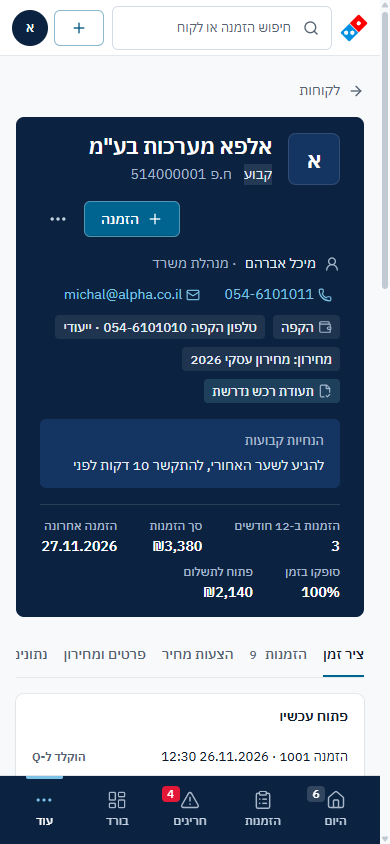
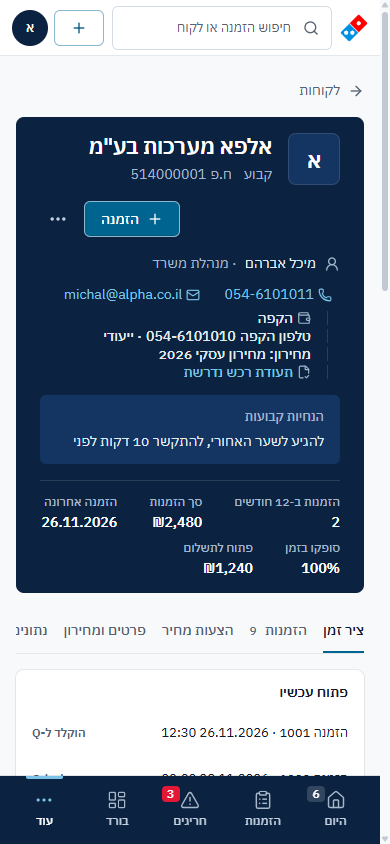
שלב 9: תיקונים מסבב האישור – קווים דקים, נגישות, פי X, ערוץ וצוות, היום, תיק לקוח, כניסה, סל ההזמנה

Changed region(s): [[0.0308, 0.3697, 0.9538, 0.955], [0.0923, 0.8626, 0.2154, 0.9242], [0.6154, 0.1848, 0.7077, 0.2464]]

diff --git a/src/features/board/Board.css b/src/features/board/Board.css
@@ -43,17 +43,17 @@
 .bpulse .bchg.is-down { color: var(--on-dark-down); }
 .bpulse .bchg__vs { color: var(--on-dark-3); font-weight: 400; }
 .bpulse__spark { display: block; width: 100%; height: 28px; margin-top: var(--space-2); }
-.bpulse__line { fill: none; stroke: var(--on-dark-accent); stroke-width: 2; vector-effect: non-scaling-stroke; stroke-linejoin: round; stroke-linecap: round; }
-.bpulse__prev { fill: none; stroke: var(--on-dark-3); stroke-width: 1.25; stroke-dasharray: 3 3; vector-effect: non-scaling-stroke; opacity: .7; }
+.bpulse__line { fill: none; stroke: var(--on-dark-1); stroke-width: 1.5; vector-effect: non-scaling-stroke; stroke-linejoin: round; stroke-linecap: round; }
+.bpulse__prev { fill: none; stroke: var(--on-dark-accent); stroke-width: 1; stroke-dasharray: 3 3; vector-effect: non-scaling-stroke; }
 /* פס דק בתחתית התא: אחוז בזמן (עם סימון יעד), או ותק ההקפה – בגובה הגרף הזעיר */
-.bpulse__bar { position: relative; display: flex; gap: 2px; height: 6px; margin-top: calc(var(--space-2) + 22px); border-radius: 2px; background: rgb(255 255 255 / .12); }
+.bpulse__bar { position: relative; display: flex; gap: 2px; height: 4px; margin-top: calc(var(--space-2) + 22px); border-radius: 2px; background: rgb(255 255 255 / .12); }
 .bpulse__bar--stack { background: none; }
 .bpulse__bar > span { display: block; height: 100%; min-width: 3px; border-radius: 2px; }
 .bpulse__bar > .is-ok { background: var(--on-dark-up); }
-.bpulse__bar > .is-n1 { background: var(--on-dark-3); }
-.bpulse__bar > .is-n2 { background: var(--on-dark-accent); }
+.bpulse__bar > .is-n1 { background: var(--on-dark-accent); }
+.bpulse__bar > .is-n2 { background: var(--on-dark-2); }
 .bpulse__bar > .is-n3 { background: var(--on-dark-warn); }
-.bpulse__goal { position: absolute; top: -4px; bottom: -4px; width: 2px; margin-inline-start: -1px; border-radius: 1px; background: var(--white); }
+.bpulse__goal { position: absolute; top: -4px; bottom: -4px; width: 1px; border-radius: 1px; background: var(--white); }
 /* שלד בצורת הפס */
 .bpulse--skel .bpulse__cell { cursor: default; gap: var(--space-3); }
 .bskel { display: block; height: 12px; border-radius: var(--radius-sm); background: var(--gray-100); }
@@ -92,12 +92,12 @@
 .board .is-a2 { background: var(--brand-500); }
 .board .is-a3 { background: var(--brand-700); }
 .board .is-cur { background: var(--brand-600); }
-.board .is-prev { background: var(--gray-300); }
-.board .is-prev-line { background: none; border-top: 2px dashed var(--gray-400); height: 0 !important; border-radius: 0 !important; }
+.board .is-prev { background: var(--gray-400); }
+.board .is-prev-line { background: none; border-top: 2px dashed var(--gray-500); height: 0 !important; border-radius: 0 !important; }
 
 .blegend { list-style: none; margin: 0; padding: 0; display: flex; flex-wrap: wrap; gap: var(--space-2) var(--space-4); font-size: var(--text-micro); color: var(--gray-700); }
 .blegend li { display: inline-flex; align-items: center; gap: var(--space-2); }
-.blegend i { width: 12px; height: 8px; border-radius: 2px; flex: none; }
+.blegend i { width: 12px; height: 4px; border-radius: 1px; flex: none; }
 
 /* ---------- הזמנות קרובות: שורה אחת, ימים ריקים מצטמצמים ---------- */
 .bdays { display: flex; margin: 0 calc(-1 * var(--space-2)); }
@@ -110,7 +110,7 @@
 .bday__name { font-size: var(--text-label); font-weight: 600; }
 .bday__date { font-size: var(--text-micro); color: var(--gray-600); white-space: nowrap; }
 .bday__count { margin-top: var(--space-2); font-size: var(--text-lead); font-weight: 600; line-height: 1.2; font-variant-numeric: tabular-nums; }
-.bday.is-empty .bday__count { color: var(--gray-400); font-weight: 500; }
+.bday.is-empty .bday__count { color: var(--gray-500); font-weight: 500; }
 .bday__sum { font-size: var(--text-label); color: var(--gray-700); }
 .bday__piz { font-size: var(--text-micro); color: var(--gray-600); }
 
@@ -125,10 +125,10 @@
 .bgoal__tag { margin-inline-start: auto; display: inline-flex; align-items: center; height: 20px; padding: 0 6px; border-radius: var(--radius-sm); font-size: var(--text-micro); font-weight: 500; line-height: 1; }
 .bgoal__tag.is-ok { background: var(--ok-bg); color: var(--ok-fg); }
 .bgoal__tag.is-behind { background: var(--urgent-bg); color: var(--urgent-fg); }
-.bgoal__track { position: relative; display: block; height: 8px; border-radius: 2px; background: var(--gray-100); }
+.bgoal__track { position: relative; display: block; height: 4px; border-radius: 2px; background: var(--gray-100); }
 .bgoal__fill { display: block; height: 100%; border-radius: 2px; background: var(--brand-600); }
-.bgoal__mark { position: absolute; top: -4px; bottom: -4px; width: 0; border-inline-start: 2px dashed var(--gray-700); }
-.bgoal__mark--goal { border-inline-start-style: solid; border-color: var(--gray-900); }
+.bgoal__mark { position: absolute; top: -5px; bottom: -5px; width: 0; border-inline-start: 1px dashed var(--gray-700); }
+.bgoal__mark--goal { border-inline-start: 1.5px solid var(--gray-900); }
 .bgoal__note { font-size: var(--text-micro); color: var(--gray-600); }
 
 /* ---------- מכירות ---------- */
@@ -144,7 +144,7 @@
 .bdaily { min-width: 0; }
 .bdaily__head { display: flex; align-items: center; gap: var(--space-3); flex-wrap: wrap; margin-bottom: var(--space-4); }
 .bdaily__head .blegend { margin-inline-start: auto; }
-.bchart { position: relative; height: 220px; margin: 0 0 var(--space-6); }
+.bchart { position: relative; height: 200px; margin: 0 0 var(--space-6); }
 .bchart--empty { display: grid; place-items: center; }
 .bchart__zero { position: absolute; inset-inline: 0; bottom: 0; border-top: 1px solid var(--gray-300); }
 .bchart__grid { position: absolute; inset: 0; pointer-events: none; }
@@ -153,14 +153,15 @@
 .bchart__grid span bdi { position: absolute; left: 0; top: -9px; padding-right: var(--space-2); background: var(--white); font-variant-numeric: tabular-nums; }
 .bchart__plot { position: absolute; top: 0; bottom: 0; right: 0; left: 52px; display: flex; align-items: flex-end; }
 .bchart__lines { position: absolute; inset: 0; width: 100%; height: 100%; overflow: visible; pointer-events: none; }
-.bchart__curline { fill: none; stroke: var(--brand-600); stroke-width: 2.5; vector-effect: non-scaling-stroke; stroke-linejoin: round; stroke-linecap: round; }
-.bchart__prevline { fill: none; stroke: var(--gray-400); stroke-width: 1.5; stroke-dasharray: 5 4; vector-effect: non-scaling-stroke; }
+.bchart__curline { fill: none; stroke: var(--brand-600); stroke-width: 2; vector-effect: non-scaling-stroke; stroke-linejoin: round; stroke-linecap: round; }
+.bchart__area { fill: var(--brand-600); opacity: .07; }
+.bchart__prevline { fill: none; stroke: var(--gray-500); stroke-width: 1; stroke-dasharray: 4 3; vector-effect: non-scaling-stroke; }
 .bchart__col { position: relative; flex: 1; height: 100%; display: flex; align-items: flex-end; justify-content: center; }
-.bchart__dot { position: absolute; width: 10px; height: 10px; margin-bottom: -5px; border-radius: 50%; background: var(--white); box-shadow: 0 0 0 2.5px var(--brand-600); pointer-events: none; }
+.bchart__dot { position: absolute; width: 10px; height: 10px; margin-bottom: -5px; border-radius: 50%; background: var(--white); box-shadow: 0 0 0 1.5px var(--brand-600); pointer-events: none; }
 .bchart__pair { display: flex; align-items: flex-end; gap: 2px; width: min(76%, 34px); height: 100%; }
 .bchart__bar { flex: 1; min-height: 0; border-radius: 2px 2px 0 0; transition: background var(--dur-instant) var(--ease); }
 .bchart__col.is-hover .bchart__bar.is-cur { background: var(--brand-800); }
-.bchart__col.is-hover .bchart__bar.is-prev { background: var(--gray-400); }
+.bchart__col.is-hover .bchart__bar.is-prev { background: var(--gray-500); }
 .bchart__x { position: absolute; top: calc(100% + 6px); font-size: var(--text-micro); color: var(--gray-600); white-space: nowrap; }
 .bchart__tip { position: absolute; top: 0; transform: translate(50%, -8px); z-index: var(--z-tip); display: grid; gap: 1px; padding: var(--space-2) var(--space-3); border-radius: var(--radius-md); background: var(--gray-900); color: var(--white); font-size: var(--text-micro); white-space: nowrap; pointer-events: none; text-align: center; box-shadow: var(--elev-2); }
 .bchart__tip b { font-weight: 500; }
@@ -170,11 +171,11 @@
 .bchart__table .report__scroll { margin-top: var(--space-2); }
 
 /* ---------- פס מפולח + טבלה מיושרת (עמידה בזמנים, גבייה) ---------- */
-.bstack { display: flex; gap: 2px; height: 10px; }
+.bstack { display: flex; gap: 2px; height: 6px; }
 .bstack span { min-width: 4px; border-radius: 2px; }
 .btab { width: 100%; margin-top: var(--space-3); border-collapse: collapse; font-size: var(--text-table); }
 .btab th { padding: var(--space-2) 0; font-weight: 400; color: var(--gray-800); text-align: start; }
-.btab th i { display: inline-block; width: 10px; height: 10px; margin-inline-end: var(--space-2); border-radius: 2px; vertical-align: -1px; }
+.btab th i { display: inline-block; width: 8px; height: 8px; margin-inline-end: var(--space-2); border-radius: 2px; vertical-align: -1px; }
 .btab td { padding: var(--space-2) 0 var(--space-2) var(--space-4); text-align: end; font-weight: 600; font-variant-numeric: tabular-nums; white-space: nowrap; }
 .btab .btab__pct { width: 1%; padding-inline-start: var(--space-4); font-weight: 400; color: var(--gray-600); }
 .btab tr + tr th, .btab tr + tr td { border-top: 1px solid var(--line-soft); }
@@ -219,7 +220,7 @@
 .brank__who { display: grid; min-width: 0; }
 .brank__name { font-size: var(--text-table); font-weight: 500; overflow: hidden; text-overflow: ellipsis; white-space: nowrap; }
 .brank__meta { font-size: var(--text-micro); color: var(--gray-600); white-space: nowrap; overflow: hidden; text-overflow: ellipsis; }
-.brank__track { display: block; height: 8px; border-radius: 2px; background: var(--gray-25); }
+.brank__track { display: block; height: 4px; border-radius: 2px; background: var(--gray-25); }
 .brank__track span { display: block; height: 100%; border-radius: 2px; background: var(--brand-500); }
 .brank li.is-first .brank__track span { background: var(--brand-600); }
 .brank li.is-first .brank__pos { color: var(--brand-700); }
@@ -262,10 +263,10 @@
   .board__bar > .seg { overflow-x: auto; scrollbar-width: none; max-width: 100%; }
   .board__bar > .seg button { flex: none; white-space: nowrap; padding: 0 var(--space-2); }
   .board__tools { margin-inline-start: 0; }
-  /* הזמנות קרובות: גלילה לרוחב עם עצירה, היום ראשון */
-  .bdays { overflow-x: auto; scroll-snap-type: x mandatory; scrollbar-width: none; margin: 0 calc(-1 * var(--space-4)); padding: 0 var(--space-3); }
-  .bday { flex: 0 0 34%; scroll-snap-align: start; }
-  .bday.is-empty { flex-basis: 24%; }
+  /* הזמנות קרובות: ארבעה ימים בשורה, שתי שורות – בלי חיתוך ובלי גלילה */
+  .bdays { display: grid; grid-template-columns: repeat(4, minmax(0, 1fr)); row-gap: var(--space-1); }
+  .bday { padding: var(--space-2); }
+  .bday:nth-child(4n+1)::before { display: none; }
   .bkv { grid-template-columns: minmax(0, 1fr); gap: 0; }
   .bkv > div { display: flex; padding: var(--space-2) 0; border-top: 1px solid var(--line-soft); }
   .bkv > div:first-child { border-top: 0; }
@@ -280,3 +281,11 @@
   .brank__pos { grid-area: pos; } .brank__who { grid-area: who; } .brank__sum { grid-area: sum; } .brank__pct { grid-area: pct; } .brank__track { grid-area: bar; }
 }
 @media (prefers-reduced-motion: reduce) { .bchart__bar, .bday, .bpulse__cell { transition: none; } }
+
+/* בלי יעדים – שורה דקה עם קישור, מתחת לפס */
+.board__nogoals { margin: calc(-1 * var(--space-2)) 0 var(--space-4); font-size: var(--text-label); color: var(--gray-600); }
+/* ערוץ וצוות בשורה אחת */
+.bct { display: grid; gap: var(--space-3); margin-top: var(--space-3); }
+.bct p { margin: 0; font-size: var(--text-table); line-height: var(--lh-body); color: var(--gray-900); }
+.bct b { font-weight: 600; }
+.bct__k { display: inline-block; min-width: 48px; font-size: var(--text-label); font-weight: 500; color: var(--gray-600); }

diff --git a/src/features/board/BoardPage.tsx b/src/features/board/BoardPage.tsx
@@ -46,9 +46,11 @@ function Money({ v, className = '' }: { v: number; className?: string }) {
   return <Ltr><span className={`money ${className}`}><span className="money__cur">₪</span>{fmtMoney(v).replace('₪', '')}</span></Ltr>;
 }
 /* "+18%" קצר לשורות משנה */
-function Delta({ d }: { d: number | null }) {
+function Delta({ cur, prev }: { cur: number; prev: number }) {
+  const d = delta(cur, prev);
   if (d === null || d === 0) return <span className="bdelta">{d === 0 ? 'ללא שינוי' : '—'}</span>;
-  return <span className={`bdelta ${d > 0 ? 'is-up' : 'is-down'}`}><Ltr>{d > 0 ? `+${d}%` : `−${Math.abs(d)}%`}</Ltr></span>;
+  if (d > RATIO_FROM) return <span className="bdelta is-up"><span className="sr-only">עלייה </span>פי <Ltr>{(cur / prev).toFixed(1)}</Ltr></span>;
+  return <span className={`bdelta ${d > 0 ? 'is-up' : 'is-down'}`}><span className="sr-only">{d > 0 ? 'עלייה' : 'ירידה'} </span><Ltr>{d > 0 ? `+${d}%` : `−${Math.abs(d)}%`}</Ltr></span>;
 }
 /* שינוי מול התקופה הקודמת. עד 200% – אחוז; מעל זה "פי X · מול <הערך הקודם>" (אחוז ענק על בסיס קטן מטעה) */
 const RATIO_FROM = 200;
@@ -157,6 +159,9 @@ export function BoardPage() {
 
   // בלי יעדים מוגדרים – בלי כרטיס יעדים (ההגדרה בהגדרות ← יעדים)
   const hasGoals = !!(goals.orders || goals.revenue || goals.onTimePct);
+  // ערוץ אחד ונציג אחד – שורה אחת משותפת במקום שני כרטיסים כמעט ריקים
+  const mergeCT = rk.channels.length < 2 && rk.team.length < 2;
+  const wide = (k: SectionKey) => WIDE.includes(k);
   const active = (Object.entries(filters) as [keyof Filters, string][]).filter(([, v]) => v);
   const FILTER_NAME: Record<keyof Filters, string> = { cluster: 'אשכול', branch: 'סניף', handler: 'נציג', method: 'אמצעי תשלום' };
 
@@ -226,8 +231,9 @@ export function BoardPage() {
       {busy ? <BoardSkeleton /> : (
         <>
           <Pulse s={s} sp={sp} sv={sv} svp={svp} col={col} daily={daily} prevName={prevName} goal={goals.onTimePct} go={nav} />
+          {!hasGoals && <p className="board__nogoals">לא הוגדרו יעדים לחודש · <button type="button" className="link" onClick={() => nav('/settings/goals')}>להגדרת יעדים</button></p>}
           <div className="board__grid">
-            {order.filter((k) => !hidden.includes(k) && (k !== 'goals' || hasGoals)).map((k) => <div key={k} className={`board__slot ${WIDE.includes(k) ? 'is-wide' : ''}`}>{render[k]()}</div>)}
+            {order.filter((k) => !hidden.includes(k) && (k !== 'goals' || hasGoals) && !(mergeCT && k === 'team')).map((k) => <div key={k} className={`board__slot ${wide(k) ? 'is-wide' : ''}`}>{mergeCT && k === 'channels' ? <ChannelTeamLine ch={rk.channels} team={rk.team} /> : render[k]()}</div>)}
           </div>
         </>
       )}
@@ -292,7 +298,7 @@ function Pulse({ s, sp, sv, svp, col, daily, prevName, goal, go }: {
         <span className="bpulse__label">סופקו בזמן{goal ? <> · יעד <Ltr>{goal}%</Ltr></> : null}</span>
         <span className="bpulse__value">{sv.onTimePct === null ? <span className="bpulse__none">—</span> : <Ltr>{sv.onTimePct}%</Ltr>}</span>
         <span className="bpulse__foot">
-          {onTimeD !== null && onTimeD !== 0 && <span className={`bchg ${onTimeD > 0 ? 'is-up' : 'is-down'}`}><span aria-hidden="true">{onTimeD > 0 ? '▲' : '▼'} </span><Ltr>{Math.abs(onTimeD)}</Ltr> נק' <span className="bchg__vs">· מול {prevName}</span></span>}
+          {onTimeD !== null && onTimeD !== 0 && <span className={`bchg ${onTimeD > 0 ? 'is-up' : 'is-down'}`}><span aria-hidden="true">{onTimeD > 0 ? '▲' : '▼'} </span><span className="sr-only">{onTimeD > 0 ? 'עלייה של' : 'ירידה של'} </span><Ltr>{Math.abs(onTimeD)}</Ltr> נק' <span className="bchg__vs">· מול {prevName}</span></span>}
           {sv.delivered > 0 && <span className="bpulse__vs">{sv.late ? <>באיחור <Ltr>{num(sv.late)}</Ltr> מתוך <Ltr>{num(sv.delivered)}</Ltr></> : 'בלי איחורים'}</span>}
         </span>
         {sv.onTimePct !== null && (
@@ -398,9 +404,9 @@ function Upcoming({ h, now, go }: { h: ReturnType<typeof horizon>; now: Date; go
       lead={h.week.count === 0 ? <p className="bsec__empty">אין הזמנות פתוחות בשבוע הקרוב.</p> : (
         <Answer value={<Ltr>{num(h.week.count)}</Ltr>}>{h.week.count === 1 ? 'הזמנה' : 'הזמנות'} בשבוע הקרוב · <Money v={h.week.sum} />{h.week.pizzas > 0 && <> · {pizzas$(h.week.pizzas)}</>}</Answer>
       )}>
-      <div className="bdays" role="list">
+      <div className="bdays" role="group" aria-label="הזמנות לפי יום">
         {h.days.map((d) => (
-          <button key={d.date} type="button" role="listitem" className={`bday ${d.weekend ? 'is-weekend' : ''} ${d.count ? '' : 'is-empty'} ${d.date === today ? 'is-today' : ''}`} onClick={() => go(linkFor(d.date))}
+          <button key={d.date} type="button" className={`bday ${d.weekend ? 'is-weekend' : ''} ${d.count ? '' : 'is-empty'} ${d.date === today ? 'is-today' : ''}`} onClick={() => go(linkFor(d.date))}
             aria-label={`${dayName(d.date)} ${short(d.date)}: ${d.count} הזמנות`}>
             <span className="bday__name">{dayName(d.date)}</span>
             <span className="bday__date"><Ltr>{short(d.date)}</Ltr>{d.weekend && <> · סופ"ש</>}</span>
@@ -411,7 +417,7 @@ function Upcoming({ h, now, go }: { h: ReturnType<typeof horizon>; now: Date; go
             </>}
           </button>
         ))}
-        <button type="button" role="listitem" className={`bday bday--later ${h.later.count ? '' : 'is-empty'}`} onClick={() => go('/orders?tab=future')}>
+        <button type="button" className={`bday bday--later ${h.later.count ? '' : 'is-empty'}`} onClick={() => go('/orders?tab=future')}>
           <span className="bday__name">אחר כך</span>
           <span className="bday__date">מעבר לשבוע</span>
           <span className="bday__count"><Ltr>{h.later.count ? num(h.later.count) : '—'}</Ltr></span>
@@ -429,9 +435,9 @@ function SalesSection({ s, sp, prevName, daily }: { s: ReturnType<typeof sales>;
     <Section id="sales" title="מכירות">
       <div className="bsales">
         <dl className="bkv">
-          <div><dt>ממוצע להזמנה</dt><dd><Money v={s.avg} />{cmp && <Delta d={delta(s.avg, sp.avg)} />}</dd></div>
-          {(s.pizzas > 0 || sp.pizzas > 0) && <div><dt>פיצות</dt><dd><Ltr>{num(s.pizzas)}</Ltr>{cmp && <Delta d={delta(s.pizzas, sp.pizzas)} />}</dd></div>}
-          <div><dt>לקוחות שהזמינו</dt><dd><Ltr>{num(s.customers)}</Ltr>{cmp && <Delta d={delta(s.customers, sp.customers)} />}</dd></div>
+          <div><dt>ממוצע להזמנה</dt><dd><Money v={s.avg} />{cmp && <Delta cur={s.avg} prev={sp.avg} />}</dd></div>
+          {(s.pizzas > 0 || sp.pizzas > 0) && <div><dt>פיצות</dt><dd><Ltr>{num(s.pizzas)}</Ltr>{cmp && <Delta cur={s.pizzas} prev={sp.pizzas} />}</dd></div>}
+          <div><dt>לקוחות שהזמינו</dt><dd><Ltr>{num(s.customers)}</Ltr>{cmp && <Delta cur={s.customers} prev={sp.customers} />}</dd></div>
         </dl>
         <DailyChart points={daily} prevName={prevName} />
       </div>
@@ -488,9 +494,10 @@ function DailyChart({ points, prevName }: { points: DayPoint[]; prevName: string
           <div className="bchart__grid" aria-hidden="true">
             {ticks.map((v) => <span key={v} style={{ bottom: `${(v / top) * 100}%` }}><bdi dir="ltr">{tick(v)}</bdi></span>)}
           </div>
-          <div className="bchart__plot" role="img" aria-label={`${metric === 'sum' ? 'הכנסות' : 'הזמנות'} ${mode === 'cum' ? 'מצטברות' : 'לפי יום'}, מול ${prevName}`}>
+          <div className="bchart__plot" role="img" aria-label={`${metric === 'sum' ? 'הכנסות' : 'הזמנות'} ${mode === 'cum' ? 'מצטברות' : 'לפי יום'}: בתקופה ${metric === 'sum' ? fmtMoney(cumCur[n - 1] ?? 0) : num(cumCur[n - 1] ?? 0)}, ב${prevName} ${metric === 'sum' ? fmtMoney(cumPrev[n - 1] ?? 0) : num(cumPrev[n - 1] ?? 0)}`}>
             {mode === 'cum' && (
               <svg className="bchart__lines" viewBox="0 0 100 100" preserveAspectRatio="none" aria-hidden="true">
+                <polygon className="bchart__area" points={`${xAt(0)},100 ${line(cumCur)} ${xAt(n - 1)},100`} />
                 <polyline className="bchart__prevline" points={line(cumPrev)} />
                 <polyline className="bchart__curline" points={line(cumCur)} />
               </svg>
@@ -696,6 +703,18 @@ function ChannelsSection({ rows }: { rows: ChannelRanked[] }) {
           </table>
         </div>
       )}
+    </Section>
+  );
+}
+/* ערוץ אחד ונציג אחד: שני משפטים בכרטיס אחד */
+function ChannelTeamLine({ ch, team }: { ch: ChannelRanked[]; team: Ranked[] }) {
+  const c = ch[0], t = team[0];
+  return (
+    <Section id="ct" title="ערוץ וצוות">
+      <div className="bct">
+        <p><span className="bct__k">ערוץ</span>{c ? <><b>{c.name}</b> – כל ההזמנות בתקופה</> : <span className="muted">אין הזמנות</span>}</p>
+        <p><span className="bct__k">צוות</span>{t ? <><b>{t.name}</b> – {orders$(t.count)}, <Money v={t.sum} />{t.onTimePct !== null && <>, <Ltr>{t.onTimePct}%</Ltr> בזמן</>}</> : <span className="muted">אין הזמנות</span>}</p>
+      </div>
     </Section>
   );
 }

diff --git a/src/features/orders/ItemsBuilder.tsx b/src/features/orders/ItemsBuilder.tsx
@@ -184,7 +184,8 @@ export function ItemsBuilder({ lines, setLines, catalog, onTouched, revealProble
   const showOther = lines.some((l) => categoryOf(l) === OTHER);
   const tabs = [...CATEGORIES, ...(showOther ? [OTHER] : [])];
   const catLines = lines.filter((l) => categoryOf(l) === tab);
-  const pizza = tab === PIZZA || tab === OTHER;
+  // "אחר" עם הבוחר (מוצר כללי בטקסט חופשי) – בלי עמודות תוספות/חלוקה, אלא אם יש שורה ישנה עם תוספות או חלוקה
+  const pizza = tab === PIZZA || (tab === OTHER && (!outerTab || catLines.some((l) => l.toppings?.length || l.parts?.some((p) => p.trim()))));
   // שורה חדשה בפיצות ממשיכה את סוג הפיצה של השורה האחרונה
   const prevName = tab === PIZZA ? [...catLines].reverse().find((l) => l.name.trim())?.name.trim() ?? '' : '';
   const draft: Line = { key: draftKey, group: tab, name: '', qty: 0, unitPrice: 0 };
@@ -288,7 +289,7 @@ export function ItemsBuilder({ lines, setLines, catalog, onTouched, revealProble
               onBlur={(e) => { if (!e.currentTarget.contains(e.relatedTarget as Node | null)) setFocus((f) => (f?.key === l.key ? null : f)); }}>
               <div className={`ib-r ${isDraft ? 'is-draft' : ''}`} role="row">
                 <span className="ib-r__name">
-                  {tab === OTHER && l.group && l.group !== 'כללי' && <span className="ib-r__old">{l.group}</span>}
+                  {tab === OTHER && l.group && l.group !== 'כללי' && l.group !== OTHER && <span className="ib-r__old">{l.group}</span>}
                   <input className={`input input--sm ${bad && !l.name.trim() ? 'is-invalid' : ''}`} list={tab === OTHER ? undefined : `ib-names-${CATEGORIES.indexOf(tab)}`} value={l.name}
                     placeholder={isDraft && prevName ? prevName : pizza ? 'למשל: משפחתית' : 'מוצר'}
                     onChange={(e) => change(l.key, { name: e.target.value, autoName: undefined })} aria-label={`${tab === PIZZA ? 'סוג פיצה' : 'מוצר'} – ${label}`} aria-invalid={bad && !l.name.trim() ? true : undefined} {...on(l.key, 'name')} />
@@ -349,7 +350,6 @@ export function ItemsBuilder({ lines, setLines, catalog, onTouched, revealProble
       </div>
       )}
       <p className="ib-foot">
-        <span className="ib-hint">{tab === PIZZA ? 'Enter – לתוספת הבאה באותו סוג · Enter בשורה ריקה – סוג פיצה חדש · כמה תוספות – עם פסיק' : `Enter – לשורה הבאה${pizza ? ' · כמה תוספות – עם פסיק' : ''}`}</span>
         {tab !== PIZZA && count(tab) > 0 && <b>סה״כ {tab}: <Ltr>{count(tab)}</Ltr></b>}
       </p>
       {CATEGORIES.map((c, i) => <datalist key={c} id={`ib-names-${i}`}>{[...new Set([...catalog.filter((x) => x.category === c).map((x) => x.name), ...hints.names(c)])].map((h) => <option key={h} value={h} />)}</datalist>)}

diff --git a/src/features/today/TodayQueue.tsx b/src/features/today/TodayQueue.tsx
@@ -102,16 +102,18 @@ function QueueRow({ o, lane, isNext, now }: { o: OrderView; lane: Lane; isNext: 
           {o.branchName || <Missing>ללא סניף</Missing>} · <Money value={o.amount} />
           {lane === 'inq' && o.qNumber && <> · Q <Ltr>{o.qNumber}</Ltr></>}
           {lane === 'closed' && <> · {closeLabel(o)}</>}
+          {back && late && <> · <span className="qrow__late">לא הועברה ל-Q</span></>}
+          {back && credit && <> · אשראי לחיוב</>}
         </span>
       </button>
       <span className="qrow__tags">
         {back && <span className="tqtag tqtag--back">הגיע הזמן לחזור</span>}
-        {late && <span className="tqtag tqtag--late">לא הועברה ל-Q</span>}
-        {credit && <span className="tqtag tqtag--credit">אשראי לחיוב</span>}
+        {late && !back && <span className="tqtag tqtag--late">לא הועברה ל-Q</span>}
+        {credit && !back && <span className="tqtag tqtag--credit">אשראי לחיוב</span>}
         {lane !== 'closed' && <OpsTag o={o} />}
         {!late && lane !== 'closed' && <HealthBadge health={o.health} issues={o.issues} compact focusable={false} />}
       </span>
-      {lane !== 'closed' && <span className="qrow__act">{o.hold ? <HoldActions o={o} /> : <NextStep o={o} />}</span>}
+      {lane !== 'closed' && <span className="qrow__act">{o.hold ? <HoldActions o={o} inRow /> : <NextStep o={o} />}</span>}
       {/* בהמתנה: למה, מי ומתי, ומתי לחזור */}
       {o.hold && (lane === 'hold' || back) && (
         <span className="qrow__hold">

diff --git a/src/features/orders/Hold.tsx b/src/features/orders/Hold.tsx
@@ -115,7 +115,7 @@ export function HoldButton({ o, size = 'sm' }: { o: OrderView; size?: 'sm' | 'md
 }
 
 /* פעולות על הזמנה שבהמתנה: ניסיון נוסף ושחרור */
-export function HoldActions({ o, size = 'sm' }: { o: OrderView; size?: 'sm' | 'md' }) {
+export function HoldActions({ o, size = 'sm', inRow = false }: { o: OrderView; size?: 'sm' | 'md'; inRow?: boolean }) {
   const { update } = useStore();
   const [open, setOpen] = useState(false);
   if (!o.hold) return null;
@@ -123,7 +123,7 @@ export function HoldActions({ o, size = 'sm' }: { o: OrderView; size?: 'sm' | 'm
   return (
     <span className="hold-acts">
       <Pop open={open} setOpen={setOpen} title={`ניסיון ${(o.hold.attempts ?? 1) + 1}`}
-        trigger={<Button size={size} variant="secondary" onClick={(e) => e.stopPropagation()}>ניסיתי שוב</Button>}>
+        trigger={<Button size={size} variant={inRow ? 'fix' : 'secondary'} onClick={(e) => e.stopPropagation()}>ניסיתי שוב</Button>}>
         <HoldForm o={o} retry done={() => setOpen(false)} />
       </Pop>
       <Button size={size} variant="ghost" onClick={(e) => { e.stopPropagation(); release(); }}>שחרר</Button>

diff --git a/src/features/quotes/quotes.css b/src/features/quotes/quotes.css
@@ -29,7 +29,7 @@
 .qe-locked { display: flex; align-items: center; gap: var(--space-2); margin: 0; padding: var(--space-3) var(--space-3); border-radius: var(--radius); background: var(--gray-100); color: var(--gray-900); font-size: var(--text-table); }
 .qe-sec { padding: var(--space-4) var(--space-4); }
 .qe-sec__title { display: flex; align-items: center; gap: var(--space-2); flex-wrap: wrap; margin: 0 0 var(--space-3); font-size: var(--text-card-title); font-weight: 600; color: var(--gray-900); }
-.qe-num { display: inline-block; min-width: 14px; color: var(--gray-400); font-size: var(--text-heading); font-weight: 600; font-variant-numeric: tabular-nums; }
+.qe-num { display: inline-block; min-width: 14px; color: var(--gray-500); font-size: var(--text-heading); font-weight: 600; font-variant-numeric: tabular-nums; }
 .qe-opt { font-size: var(--text-label); font-weight: 400; color: var(--gray-600); }
 .qe-row { display: flex; align-items: center; gap: var(--space-3); flex-wrap: wrap; }
 .qe-plsel { width: auto; min-width: 220px; }

diff --git a/src/features/customers/CustomerFile.css b/src/features/customers/CustomerFile.css
@@ -270,3 +270,11 @@
   .cfile__mob { display: flex; }
   .cfile__actions { margin-inline-start: auto; }
 }
+/* עובדות בראש התיק – טקסט עם מפרידים, כמו בראש כרטיס ההזמנה (לא שרשרת תגיות) */
+.cfile__head .cfile__facts { gap: var(--space-1) 0; }
+.cfile__head .cfile__facts > .tag { height: auto; padding: 0; background: none; font-size: var(--text-table); font-weight: 500; }
+.cfile__head .cfile__facts > * + *::before { content: ""; display: inline-block; width: 1px; height: 14px; margin: 0 var(--space-3); background: var(--on-dark-line); vertical-align: middle; }
+.cfile__head .cfile__facts > .fact { margin-inline-end: 0; }
+.cfile__head .tag--brand { background: none; color: var(--on-dark-accent); }
+.cfile__head .btn--primary { border-color: rgb(255 255 255 / .55); }
+.cfile__head .ctype { background: none; padding: 0; color: var(--on-dark-3); }

diff --git a/src/features/orders/NewOrder.tsx b/src/features/orders/NewOrder.tsx
@@ -560,7 +560,7 @@ function NewOrderForm({ initial, onClose }: { initial: NewOrderRequest; onClose:
           : (
             <span className="ib-sum__override">
               <input className="input input--sm input--ltr" inputMode="decimal" autoFocus value={override} onChange={(e) => { setOverride(e.target.value); clearErr('final'); }} aria-label="סכום לחיוב (לפי הסגירה מול הלקוח)" {...inv('final')} />
-              {isManual && <span className="no-final__tag">שונה ידנית · מחושב <Ltr>{fmtMoney(total)}</Ltr></span>}
+              {isManual && <span className="no-final__tag">שונה ידנית · מחושב{' '}<Ltr>{fmtMoney(total)}</Ltr></span>}
               <button type="button" className="link" onClick={() => setOverride(null)}>חזור לחישוב</button>
             </span>
           ))}

diff --git a/src/auth/AuthScreens.css b/src/auth/AuthScreens.css
@@ -15,7 +15,7 @@
 .auth__brand-title { margin: var(--space-6) 0 0; font-size: 40px; font-weight: 600; line-height: 1.15; letter-spacing: -0.02em; text-wrap: balance; animation: rise 700ms var(--ease-out) 500ms both; }
 .auth__brand-sub { margin: 0; font-size: var(--text-card-title); color: var(--navy-text); animation: rise 700ms var(--ease-out) 600ms both; }
 /* קו דק מתחת לתת-הכותרת – נגיעה עריכתית שקטה */
-.auth__brand-sub::after { content: ""; display: block; width: 40px; height: 1px; margin: var(--space-4) auto 0; background: var(--brand-sky); opacity: 0.7; }
+
 
 .auth__panel { display: grid; grid-template-rows: 1fr auto; justify-items: center; padding: 40px var(--space-5) var(--space-5); }
 .auth__panel-mid { display: flex; flex-direction: column; justify-content: center; width: 100%; max-width: 380px; }

diff --git a/src/design/components.css b/src/design/components.css
@@ -273,3 +273,5 @@ a.btn, a.btn:hover { text-decoration: none; }
 /* קישור בתוך טקסט – משותף לכל המסכים (היה רק בכרטיס ההזמנה, שנטען עצל) */
 .link { border: 0; background: none; padding: 0; font: inherit; color: var(--brand-700); font-weight: 500; cursor: pointer; text-decoration: underline; text-underline-offset: 3px; text-decoration-thickness: 1px; text-decoration-color: rgb(0 100 145 / .3); }
 .link:hover { text-decoration-color: currentColor; }
+/* פעולת שורה במסך מגע: רקע עדין, כי אין ריחוף שמסמן שהיא לחיצה */
+@media (hover: none) { .btn--fix, .btn--act { background: var(--brand-50); } }

diff --git a/src/auth/AuthScreens.tsx b/src/auth/AuthScreens.tsx
@@ -74,7 +74,6 @@ function Login({ onRegister }: { onRegister: () => void }) {
   /* ניסוח בלשון רבים – פנייה מקצועית וניטרלית מגדרית */
   return (
     <div className="alogin">
-      <p className="alogin__eyebrow">מוקד הזמנות עסקיות</p>
       <h1 className="auth__title">התחברות</h1>
       <p className="auth__lead">ברוכים הבאים. הזינו את פרטי החשבון כדי להמשיך.</p>
 

diff --git a/src/features/today/TodayPage.css b/src/features/today/TodayPage.css
@@ -125,3 +125,4 @@
   .qrow__act { grid-column: 3; grid-row: 2; }
   .qrow__hold { grid-column: 2 / -1; grid-row: 3; padding: 0; }
 }
+.qrow__late { color: var(--danger-fg); font-weight: 500; }
